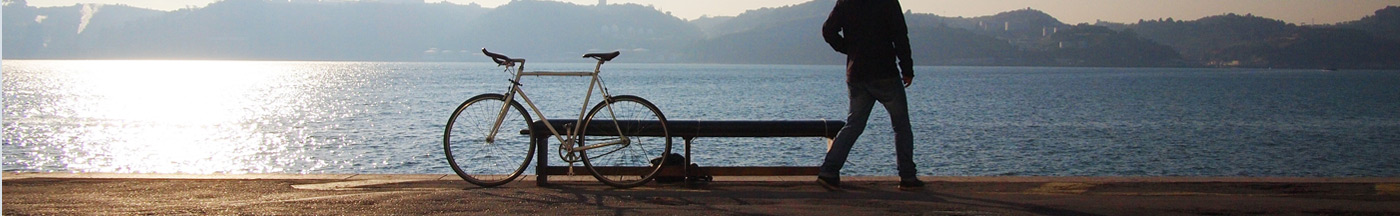
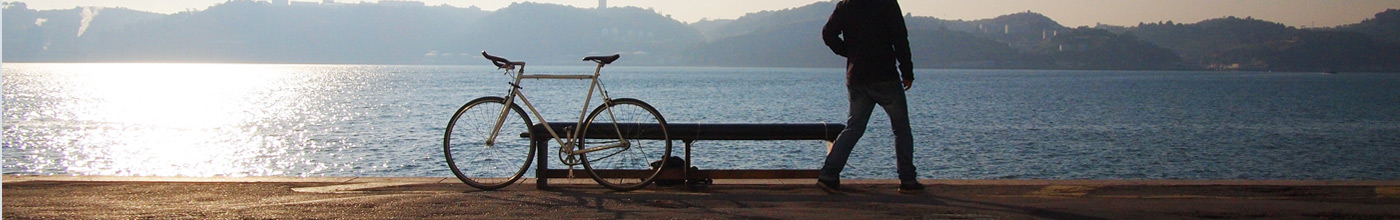
resolvendo bug

diff --git a/css/style.css b/css/style.css
@@ -258,7 +258,7 @@ img {
 /* Quebra */
 .quebra {
 	width: 100%;
-	height: 217px;
+	height: 220px;
 	background: url("../img/bg-footer.jpg") no-repeat center;
 	background-size: cover;
 	text-align: center;
